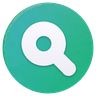
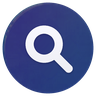
Loupe et actualiser : trait plus fin, pastille bleu nuit discrète

diff --git a/index.html b/index.html
@@ -44,7 +44,7 @@
   <title>MiloDex</title>
   <link rel="icon" type="image/png" href="favicon.png?v=milo2">
   <link rel="apple-touch-icon" href="favicon.png?v=milo2">
-  <link rel="stylesheet" href="style.css?v=ui96">
+  <link rel="stylesheet" href="style.css?v=ui97">
   <!-- ══ LA POIGNÉE DE MAIN, PAYÉE D'AVANCE ══════════════════════════
        MESURÉ : le premier visuel de carte coûtait 330 ms, dont 222 ms de
        seule négociation TLS avec assets.tcgdex.net — avant même qu'un octet
@@ -190,7 +190,7 @@
     <div class="rail-foot">
       <!-- Recherche de cartes (⌘K) : les miennes puis le catalogue. Voir openPalette(). -->
       <button class="rail-cmd" onclick="openPalette()" aria-label="Rechercher une carte">
-        <svg class="ico-badge" viewBox="0 0 24 24" fill="none" aria-hidden="true"><image href="ico-search.png?v=1" x="1" y="1" width="22" height="22"/></svg>
+        <svg class="ico-badge" viewBox="0 0 24 24" fill="none" aria-hidden="true"><image href="ico-search.png?v=2" x="1" y="1" width="22" height="22"/></svg>
         <span>Rechercher…</span>
         <kbd class="kbd">⌘K</kbd>
       </button>
@@ -216,7 +216,7 @@
       </div>
       <div class="header-actions" id="header-actions">
         <button class="btn btn-ghost btn-sm btn-icon" onclick="openPalette()" title="Rechercher une carte (⌘K)" aria-label="Rechercher une carte">
-          <svg class="ico-badge" viewBox="0 0 24 24" fill="none" aria-hidden="true"><image href="ico-search.png?v=1" x="1" y="1" width="22" height="22"/></svg>
+          <svg class="ico-badge" viewBox="0 0 24 24" fill="none" aria-hidden="true"><image href="ico-search.png?v=2" x="1" y="1" width="22" height="22"/></svg>
         </button>
         <!-- PAS de bouton « Sync » global ici. Recoter les 1 400 cartes d'un
              coup prenait 20 minutes pour REFAIRE ce qui était déjà juste, et
@@ -225,7 +225,7 @@
              (voir syncCardPrice) — une seconde, et c'est celle qu'on regarde. -->
         <button class="btn btn-ghost btn-sm btn-icon btn-refresh" id="btn-refresh" onclick="refreshSeries()"
           title="Chercher les nouvelles séries" aria-label="Chercher les nouvelles séries">
-          <svg class="refresh-ico ico-badge" viewBox="0 0 24 24" fill="none" aria-hidden="true"><image href="ico-series.png?v=1" x="1" y="1" width="22" height="22"/></svg>
+          <svg class="refresh-ico ico-badge" viewBox="0 0 24 24" fill="none" aria-hidden="true"><image href="ico-series.png?v=2" x="1" y="1" width="22" height="22"/></svg>
         </button>
         <!-- LE COMPTE. Un seul bouton pour deux informations, et c'est
              délibéré : le visage dit À QUI appartient ce qu'on regarde, et
@@ -296,7 +296,7 @@
 <div class="palette" id="palette" role="dialog" aria-modal="true" aria-label="Recherche de cartes" onclick="if(event.target===this)closePalette()">
   <div class="palette-box">
     <div class="palette-top">
-      <svg class="ico-badge" viewBox="0 0 24 24" fill="none" aria-hidden="true"><image href="ico-search.png?v=1" x="1" y="1" width="22" height="22"/></svg>
+      <svg class="ico-badge" viewBox="0 0 24 24" fill="none" aria-hidden="true"><image href="ico-search.png?v=2" x="1" y="1" width="22" height="22"/></svg>
       <input class="palette-input" id="palette-input" type="text" autocomplete="off" spellcheck="false"
              placeholder="Nom d'une carte…" aria-label="Rechercher une carte"
              aria-controls="palette-list" role="combobox" aria-expanded="true">
@@ -466,7 +466,7 @@
 <!-- Coordonnées du projet Supabase. Chargé AVANT app.js : le premier geste
      du démarrage est de relire la session, et il lui faut ces deux clés.
      La clé « anon » est publiable — voir l'en-tête de cloud-config.js. -->
-<script src="cloud-config.js?v=ui96"></script>
-<script src="app.js?v=ui96"></script>
+<script src="cloud-config.js?v=ui97"></script>
+<script src="app.js?v=ui97"></script>
 </body>
 </html>

diff --git a/sw.js b/sw.js
@@ -12,13 +12,13 @@
  * Supabase, où une réponse périmée serait grave — et où une réponse REJOUÉE
  * depuis un cache serait pire, puisque les requêtes portent un jeton de session.
  */
-const V = 'irondex-v89';
+const V = 'irondex-v90';
 // cm-slugs.js (2,1 Mo) N'EST PLUS pré-caché : le télécharger pendant
 // l'installation du worker, c'est-à-dire pendant le premier démarrage, volait
 // de la bande passante à l'app elle-même. app.js ne le charge plus qu'à la
 // première fiche Cardmarket à résoudre — et la règle « réseau d'abord » plus
 // bas le met alors en cache pour l'hors-ligne, exactement comme avant.
-const SHELL = ['./', './index.html', './app.js?v=ui96', './style.css?v=ui96', './cloud-config.js?v=ui96',
+const SHELL = ['./', './index.html', './app.js?v=ui97', './style.css?v=ui97', './cloud-config.js?v=ui97',
                './manifest.json', './logo.png', './favicon.png'];
 
 // Le client Supabase vient d'un CDN, et il est INDISPENSABLE au démarrage :

diff --git a/style.css b/style.css
@@ -4480,7 +4480,9 @@ body::before{display:none}
   .cards-grid .card-thumb>.remove-btn,.card-thumb>.cardser-miss-info{width:26px;height:26px}
 }
 
-/* ── Loupe et « nouvelles séries » : les pastilles turquoise et orange ────
+/* ── Loupe et « nouvelles séries » : pastilles bleu nuit, trait fin ──────
+   Tout en haut, elles restent discrètes : la couleur est réservée aux gestes
+   sur les cartes (+, croix, i).
    Même famille que + / croix / i. Le bouton rond de la barre haute
    s'efface derrière la pastille (sinon : un rond dans un rond). */
 .header-actions .btn-icon:has(svg.ico-badge){background:none!important;border-color:transparent!important;
